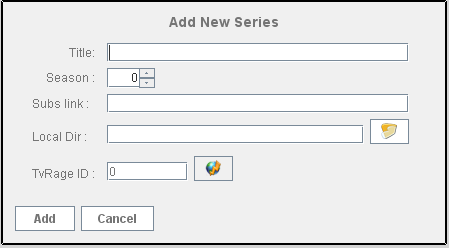
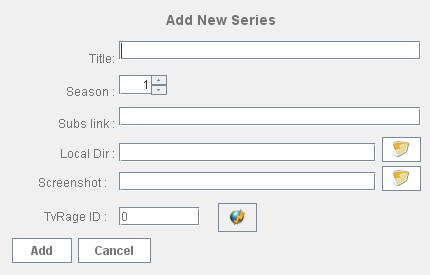
Updated add/edit series  panel help (closes issue 19)

Changed region(s): [[0.0, 0.0, 1.0, 1.0], [0.3628, 0.0565, 0.6349, 0.1129], [0.4837, 0.7339, 0.6047, 0.8468]]

diff --git a/src/help/html/series_administration.html b/src/help/html/series_administration.html
@@ -17,6 +17,8 @@
             <li>Season is the series season (must be an integer) </li>
             <li>Subs is a link to a web page with the series subs (eg http://www.tvsubtitles.net/tvshow-54-5.html) </li>
             <li>Local Dir is the path to the directory that contains the series episodes</li>
+            <li>Screenshot is the screenshot that will be displayed below the series table when this series is selected.<br />
+            The screenshot file is saved in /images directory</li>
             <li>TvRage ID is the Id of the series in tvrage.com database.This can be found by clicking on the button
             next to TvRage ID textfield. Check [<span class="link">Internet Update</span>] for more info.</li>
             </ul>
